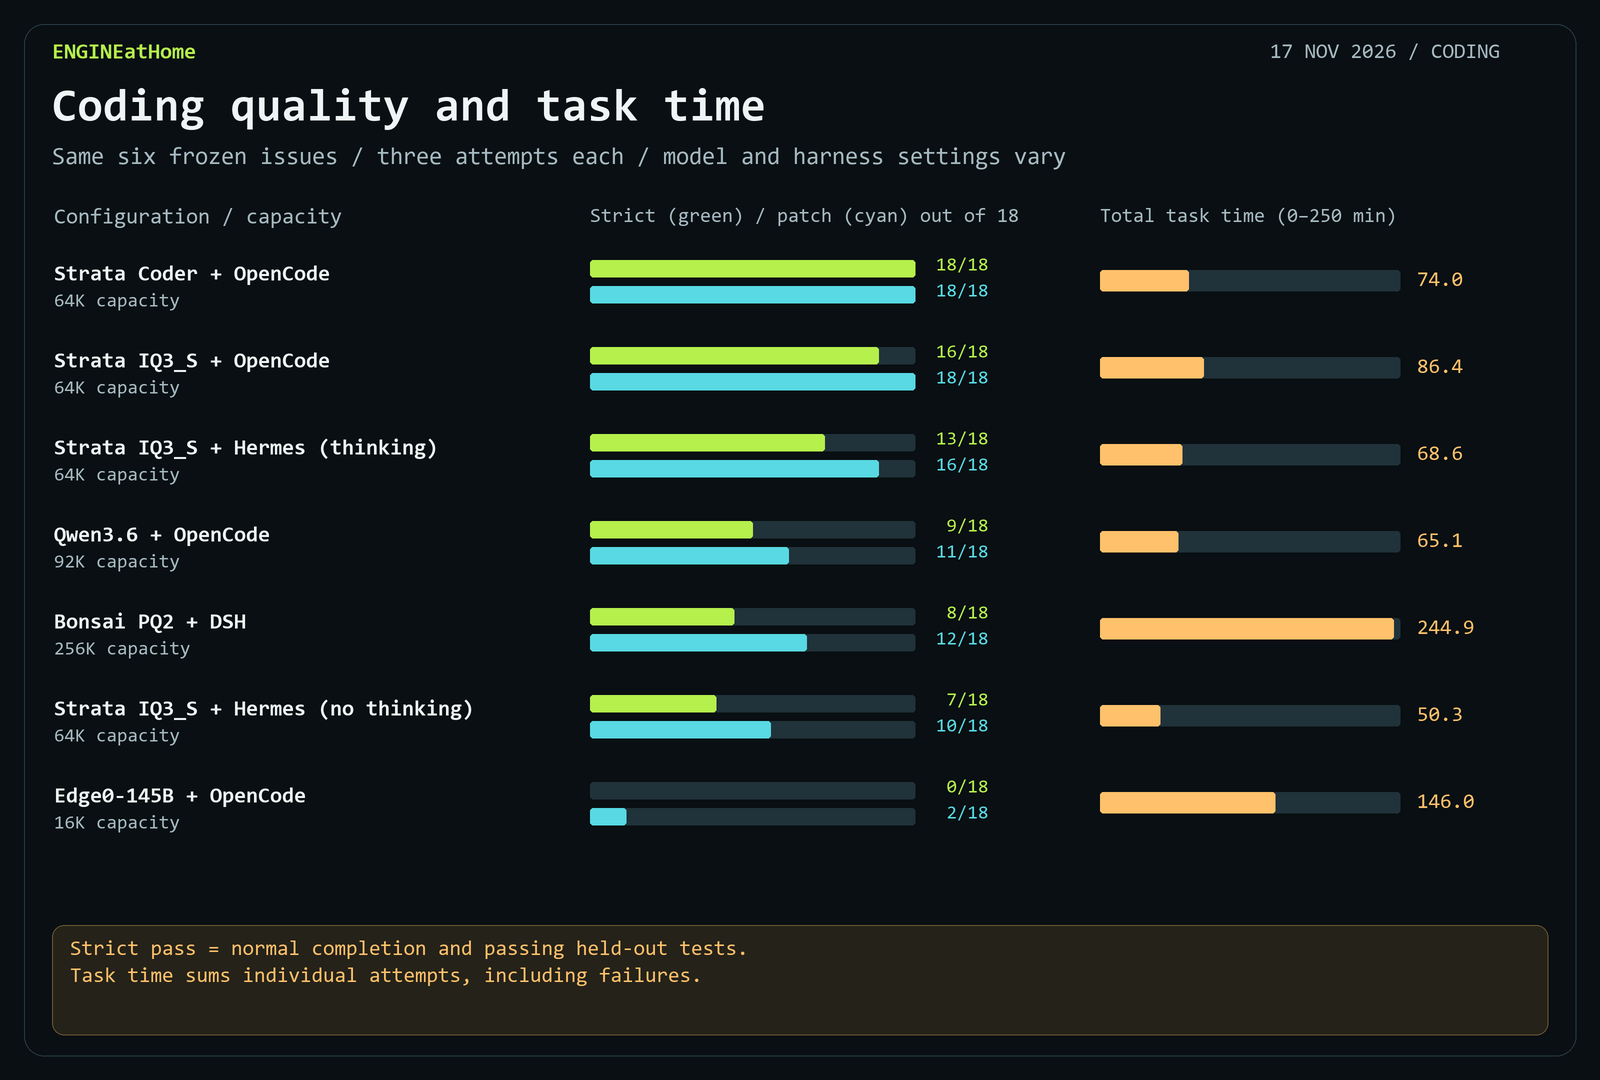
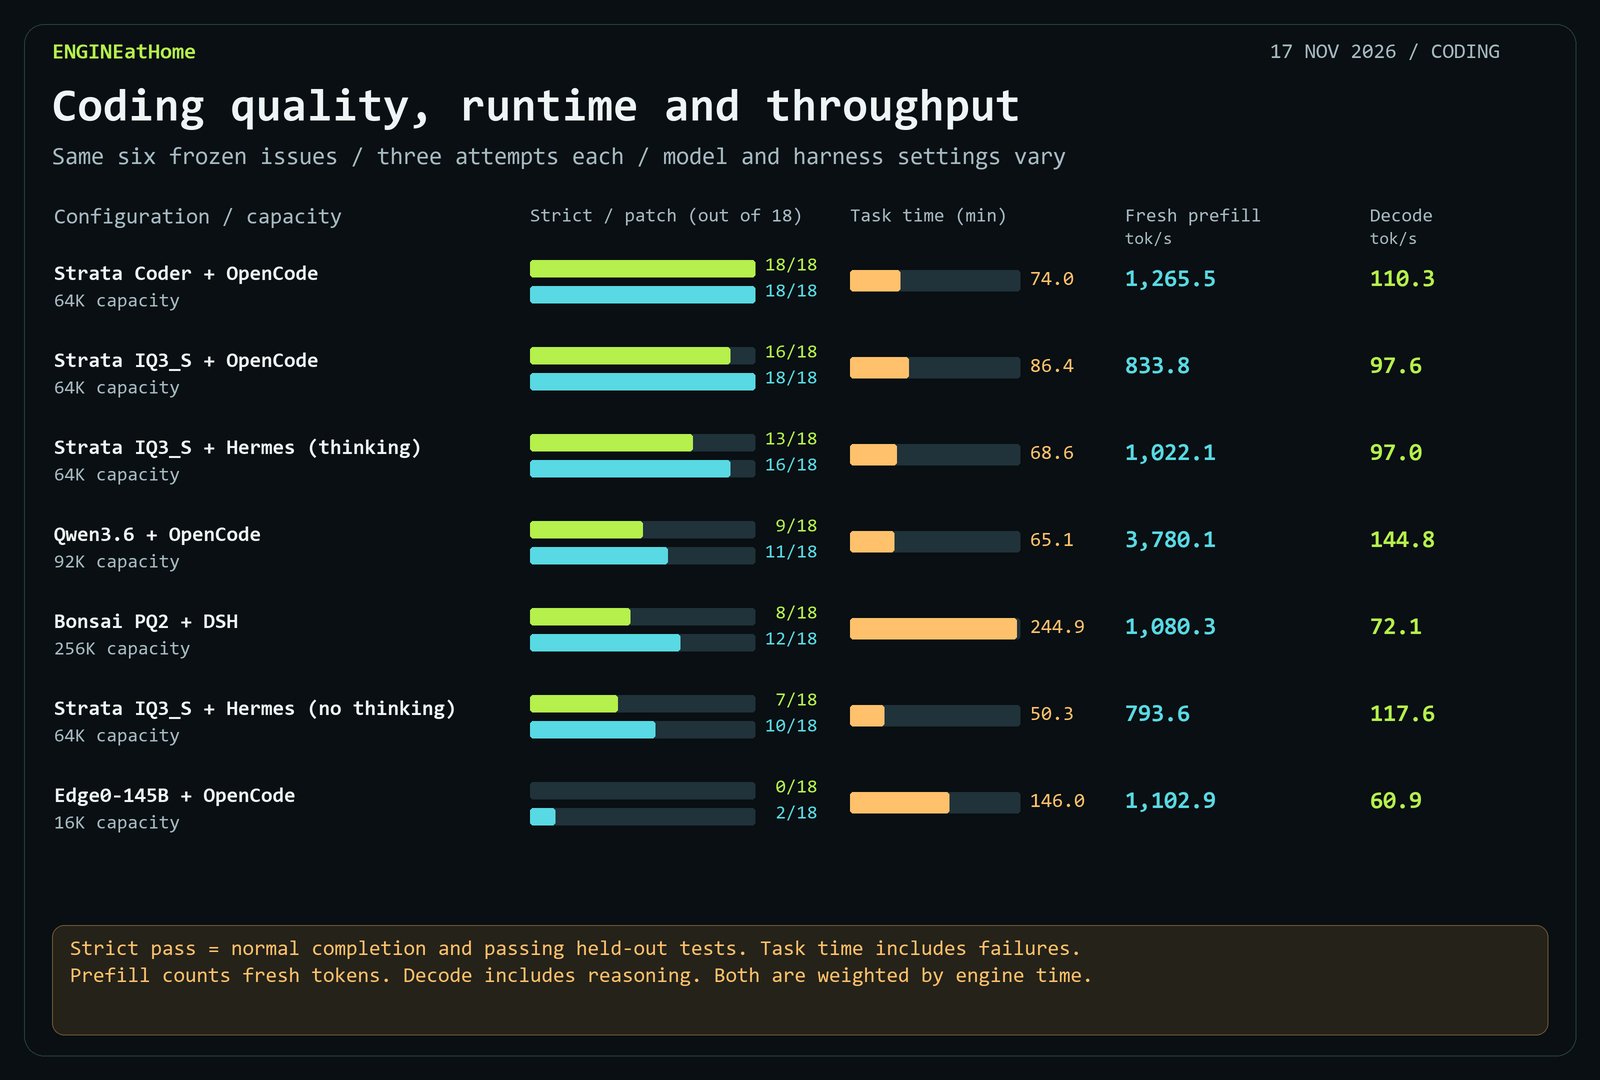
Add prefill and decode to coding comparison

diff --git a/bench/render_cards.py b/bench/render_cards.py
@@ -555,28 +555,34 @@ def qwen36_hardest_context_card():
 
 def bonsai_cards():
     data = load('bonsai-dsh-256k-20261117.json')
-    card = Card('Coding quality and task time',
+    card = Card('Coding quality, runtime and throughput',
                 'Same six frozen issues / three attempts each / model and harness settings vary',
                 'CODING', date='17 NOV 2026')
     card.text(54, 207, 'Configuration / capacity', 22, MUTED)
-    card.text(590, 207, 'Strict (green) / patch (cyan) out of 18', 20, MUTED)
-    card.text(1100, 207, 'Total task time (0–250 min)', 20, MUTED)
+    card.text(530, 207, 'Strict / patch (out of 18)', 19, MUTED)
+    card.text(850, 207, 'Task time (min)', 19, MUTED)
+    card.text(1125, 207, 'Fresh prefill', 19, MUTED)
+    card.text(1370, 207, 'Decode', 19, MUTED)
+    card.text(1125, 231, 'tok/s', 17, MUTED)
+    card.text(1370, 231, 'tok/s', 17, MUTED)
     for i, row in enumerate(data['matched_issue_matrices']):
         y = 260 + 87*i
-        card.text(54, y+4, row['label'], 22, WHITE, True)
+        card.text(54, y+4, row['label'], 21, WHITE, True)
         card.text(54, y+32, f"{row['capacity']//1024}K capacity", 19, MUTED)
         for offset, key, color in [(0, 'strict', GREEN), (26, 'patches', CYAN)]:
             value = row[key]
-            card.rect((590, y+offset, 915, y+offset+17), '#20323a', radius=3)
+            card.rect((530, y+offset, 755, y+offset+17), '#20323a', radius=3)
             if value:
-                card.rect((590, y+offset, 590+325*value/18, y+offset+17), color, radius=3)
-            card.text(936, y+offset-4, f'{value:2d}/18', 19, color)
+                card.rect((530, y+offset, 530+225*value/18, y+offset+17), color, radius=3)
+            card.text(765, y+offset-4, f'{value:2d}/18', 19, color)
         minutes = row['task_minutes']
-        card.rect((1100, y+10, 1400, y+31), '#20323a', radius=3)
-        card.rect((1100, y+10, 1100+300*minutes/250, y+31), AMBER, radius=3)
-        card.text(1417, y+10, f'{minutes:.1f}', 21, AMBER)
-    card.footer(['Strict pass = normal completion and passing held-out tests.',
-                 'Task time sums individual attempts, including failures.'])
+        card.rect((850, y+10, 1020, y+31), '#20323a', radius=3)
+        card.rect((850, y+10, 850+170*minutes/250, y+31), AMBER, radius=3)
+        card.text(1030, y+10, f'{minutes:.1f}', 20, AMBER)
+        card.text(1125, y+8, f"{row['prefill_tps']:,.1f}", 24, CYAN, True)
+        card.text(1370, y+8, f"{row['decode_tps']:,.1f}", 24, GREEN, True)
+    card.footer(['Strict pass = normal completion and passing held-out tests. Task time includes failures.',
+                 'Prefill counts fresh tokens. Decode includes reasoning. Both are weighted by engine time.'])
     card.save('bonsai-coding-comparison.png')
 
     card = Card('Bonsai DSH / all 18 attempts', '256K capacity / 20-minute agent budget per attempt',

diff --git a/docs/bonsai-dsh-256k-20261117.md b/docs/bonsai-dsh-256k-20261117.md
@@ -37,10 +37,15 @@ Bonsai ran with Prism llama.cpp b12128, Q4_0 key and value caches, Flash Attenti
 | --- | ---: | ---: | ---: |
 | Bonsai PQ2 + DSH | 72.1 | 1,080 | 167,615 |
 | Strata Coder + OpenCode | 110.3 | 1,265 | 43,633 |
+| Strata IQ3_S + OpenCode | 97.6 | 834 | 57,294 |
+| Strata IQ3_S + Hermes, thinking on | 97.0 | 1,022 | 49,964 |
+| Strata IQ3_S + Hermes, thinking off | 117.6 | 794 | 34,165 |
 | Qwen3.6 + OpenCode | 144.8 | 3,780 | 77,943 |
 | Edge0-145B + OpenCode | 60.9 | 1,103 | 16,357 |
 
 Bonsai rates divide the sum of logged tokens by the sum of engine processing time for each phase across 1,280 timed requests. Decode includes reasoning. Task time also includes tool execution, model startup, and grading.
+
+Guided Strata Coder is the default for this coding workload on the strength of its 18/18 strict result. Qwen3.6 has the highest measured prefill and decode rates. Bonsai handled the largest actual prompt but took over three times longer than guided Strata Coder across the matrix.
 
 ## Synthetic context tests
 
